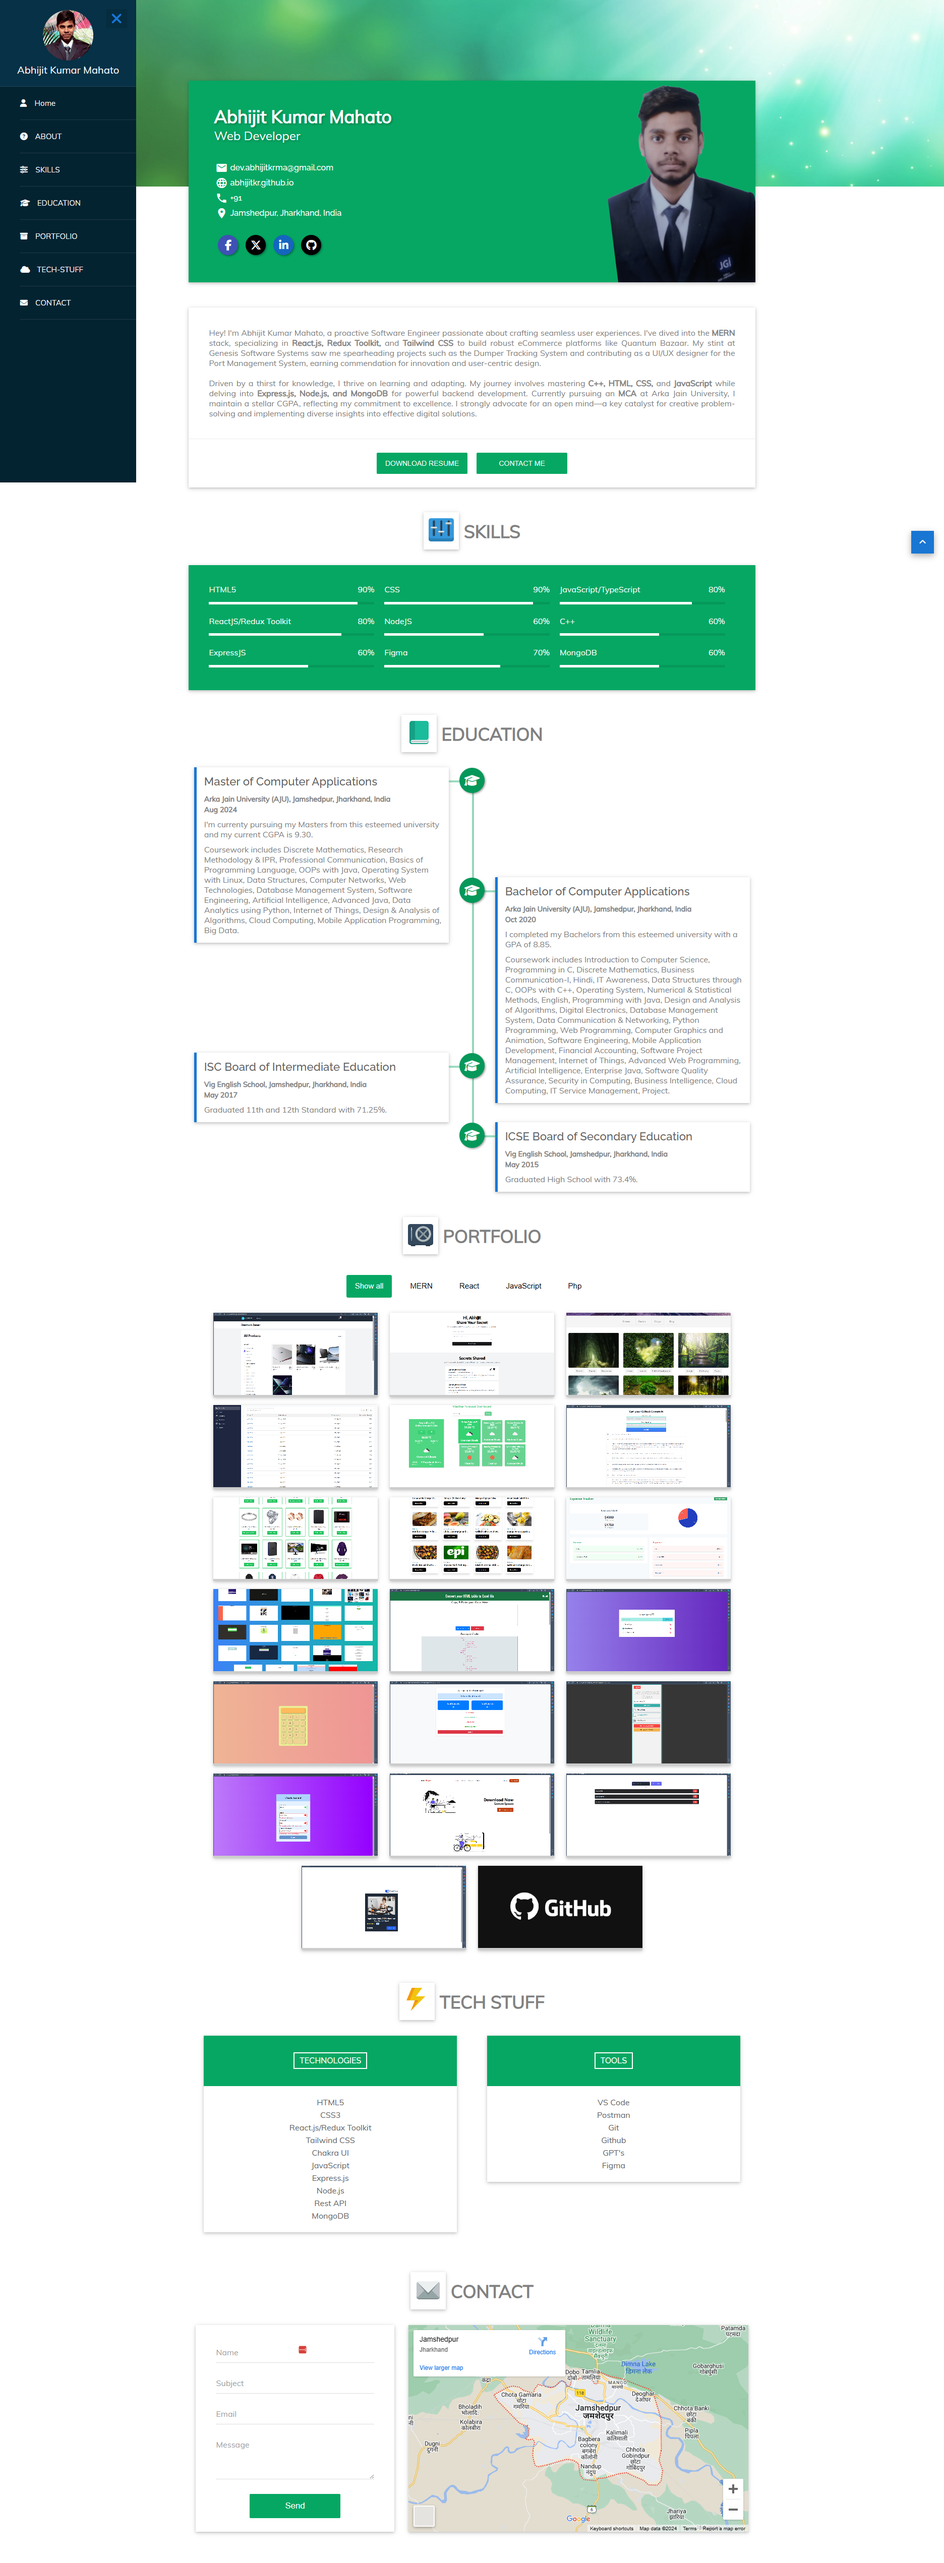
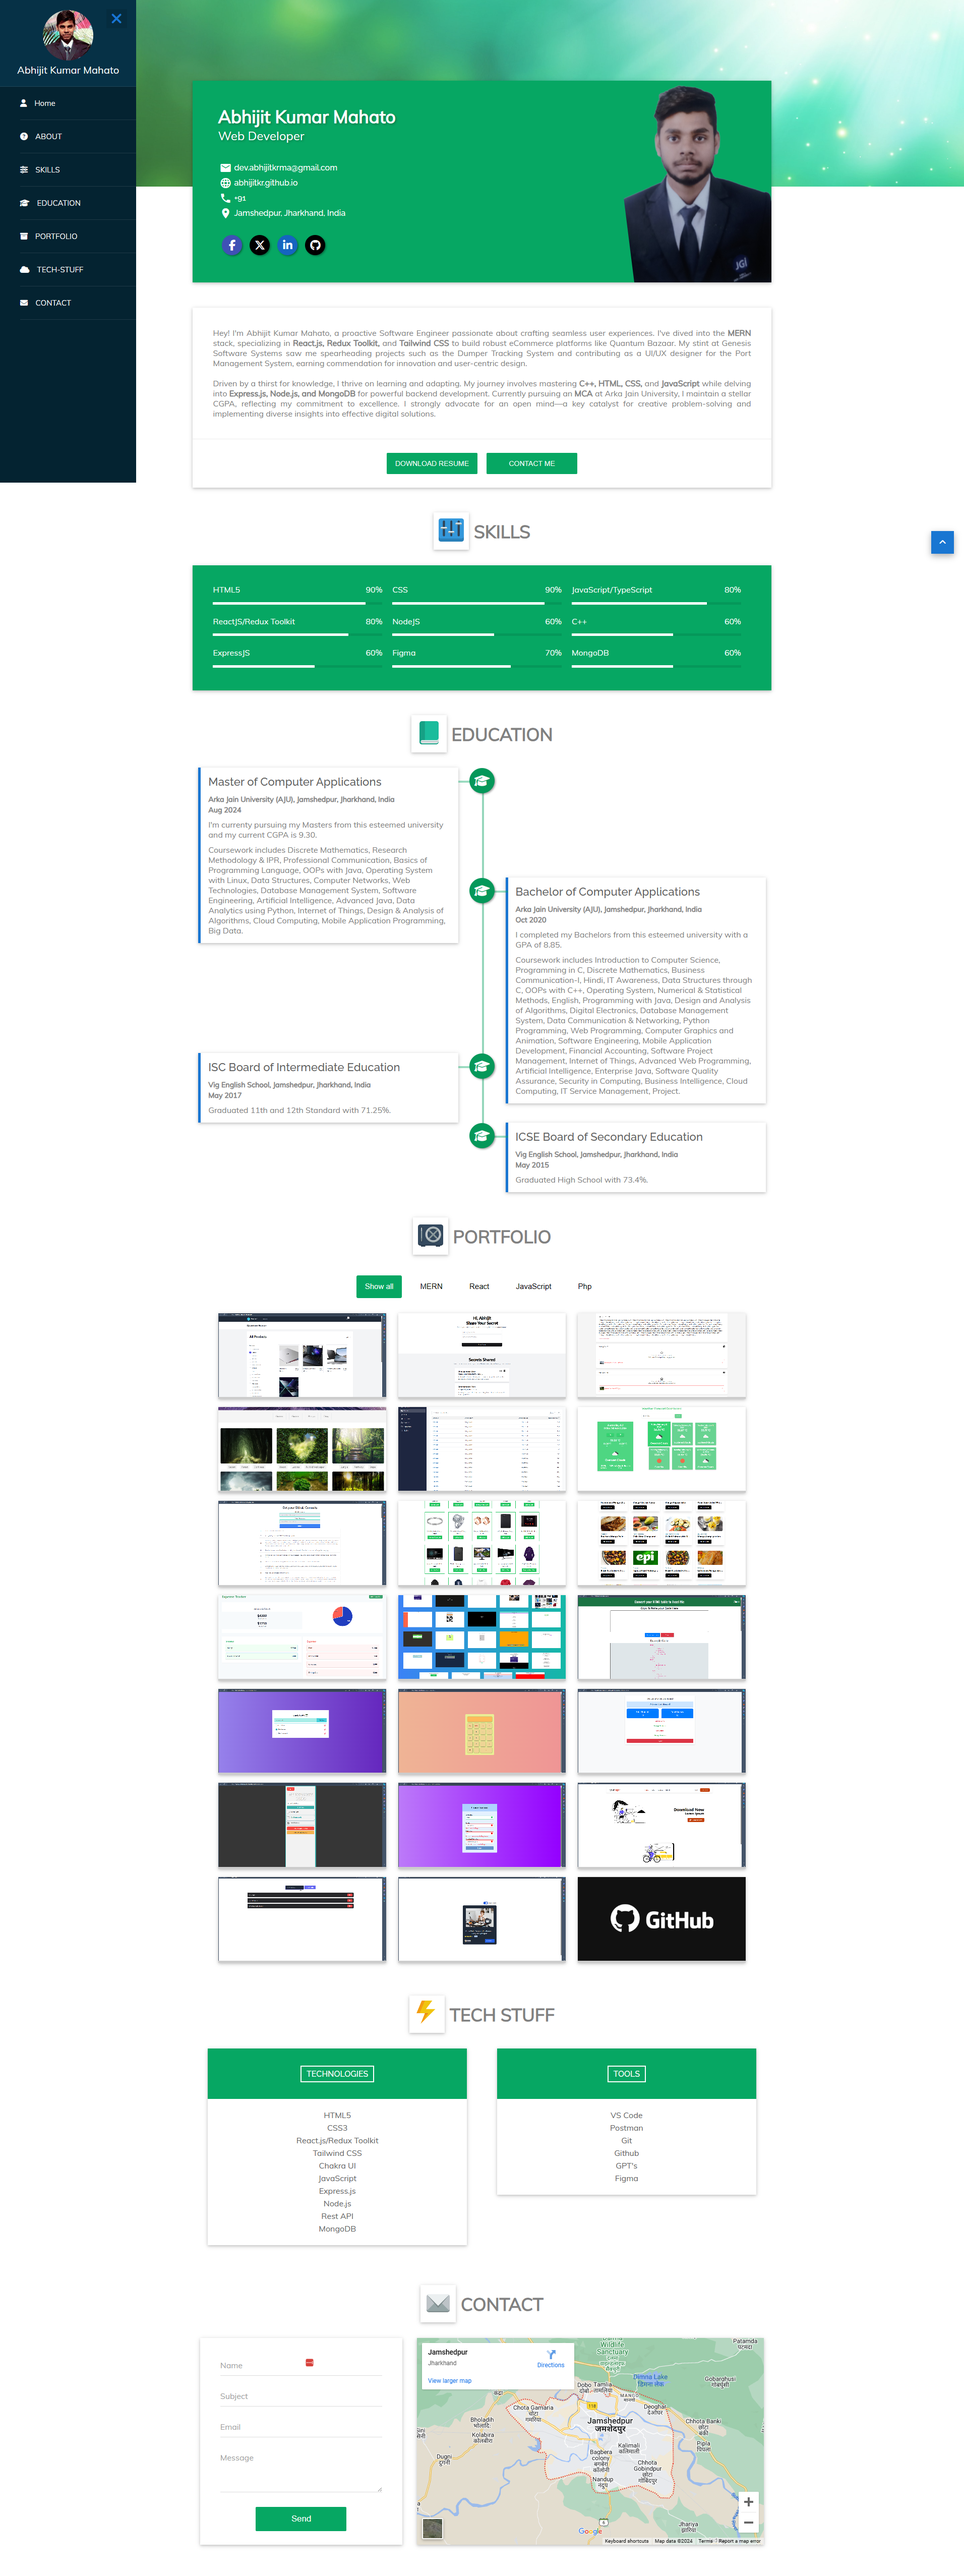
Adds the Web Based Writing Tool Assessment Project in Portfolio section

diff --git a/index.html b/index.html
@@ -463,6 +463,31 @@
                 </div>
               </div>
             </div>
+
+            <div class="portfolio-item" data-name="react" data-aos="zoom-in" data-aos-delay="50">
+              <div class="background-group">
+                <img src="./images/portfolio-thumbnails/webBasedWritingTool.png" alt="Portfolio item" class="item-image">
+                <div class="overlay">
+                  <figcaption>Web Based Writing Tool</figcaption>
+                  <div class="button-group">
+                    <a href="https://github.com/Abhijitkr/Web-Based-Writing-Tool" target="_blank">
+                      <p class="link-bg btn-animation">
+                        <i class="fa-brands fa-github"></i>
+                      </p>
+                    </a>
+                    <a href="https://www.youtube.com/watch?v=UjJ8H-ub1zc" target="_blank">
+                      <p class="link-bg btn-animation">
+                        <i class="fa-brands fa-youtube"></i>
+                      </p>
+                    </a><a href="https://webbasedwritingtool.netlify.app/" target="_blank">
+                      <p class="link-bg btn-animation">
+                        <i class="fa-solid fa-globe"></i>
+                      </p>
+                    </a>
+                  </div>
+                </div>
+              </div>
+            </div>
             
             <div class="portfolio-item" data-name="react" data-aos="zoom-in" data-aos-delay="50">
               <div class="background-group">
